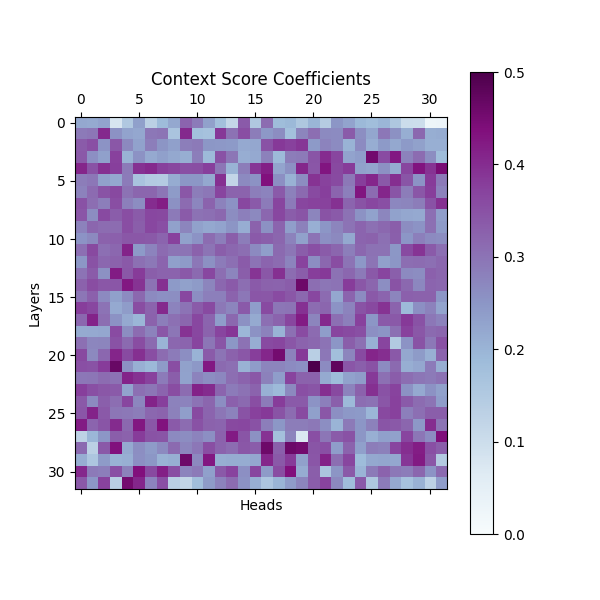
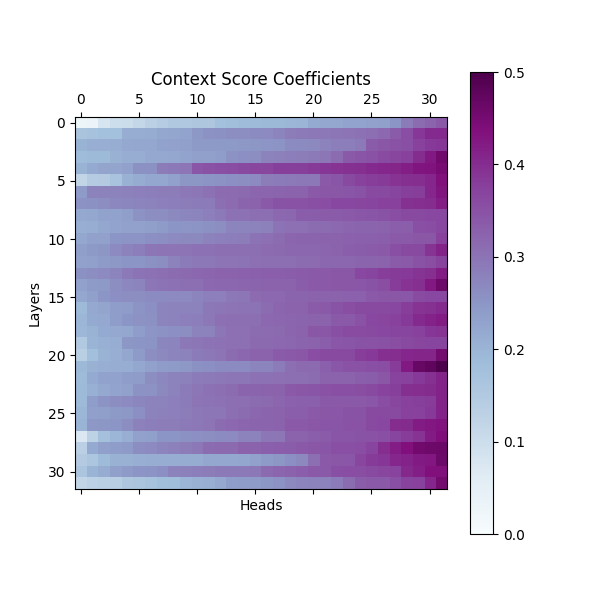
updated figures

Changed region(s): [[0.12, 0.18, 0.75, 0.84], [0.54, 0.18, 0.57, 0.21]]

diff --git a/README.md b/README.md
@@ -17,10 +17,10 @@ implement the scoring mechanisms as defined in the following study.
 **[Sun, Zhongxiang, et al. "ReDeEP: Detecting Hallucination in Retrieval-Augmented Generation via Mechanistic Interpretability." ICLR. 2025.](https://arxiv.org/abs/2410.11414)**
 
 We compute hallucination detection scores across a model's layers and attention heads, since 
-some may be more indicative of hallucination behavior than others. In the example below, 
+some may be more indicative of hallucination behavior than others. In the example figures below, 
 we notice that a non-hallucinated extraction shows context scores which are more strongly concentrated within 
 a few individual attention heads in later layers of the model. For this score, larger values indicate stronger copying (non-hallucination)
-behavior. This example is produced using the `meta-llama/Llama-3.1-8B-Instruct` model.
+behavior. 
 
 <table>
   <tr>
